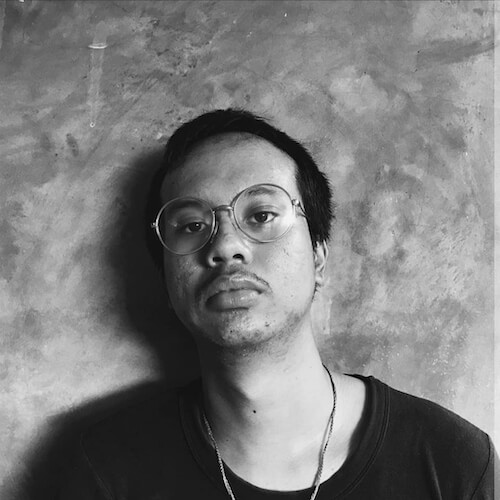
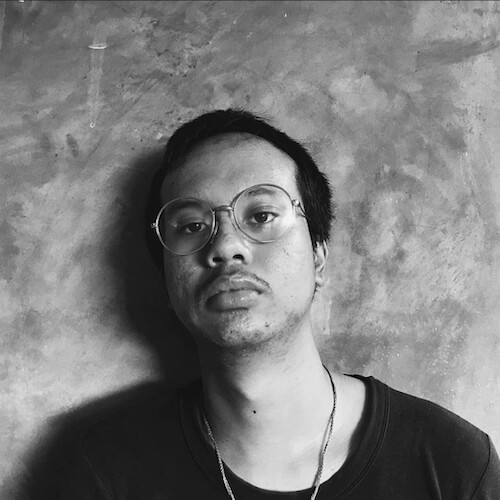
change text alignment for content text

diff --git a/src/pages/PageAbout.vue b/src/pages/PageAbout.vue
@@ -3,9 +3,9 @@
     class="lg:flex lg:justify-center lg:items-center px-8 md:px-16 pb-16 md:py-16 lg:px-24 lg:py-32 lg:pb-40"
   >
     <div
-      class="about-content image-container pb-4 lg:pb-0 lg:pt-8 lg:w-1/2 lg:mr-12 xl:mr-24"
+      class="about-content image-container pb-4 lg:pb-0 lg:pt-8 lg:w-1/2 lg:mr-12 xl:mr-8"
     >
-      <img class="w-2/3 md:w-1/2 lg:w-2/3 mx-auto" :src="picture" />
+      <img class="w-2/3 md:w-1/2 lg:w-1/2 mx-auto" :src="picture" />
       <div class="font-cormorant mt-2 text-sm text-center lg:text-base">
         Hanindito Buwono.
       </div>

diff --git a/src/pages/PagePortfolioWriting.vue b/src/pages/PagePortfolioWriting.vue
@@ -24,7 +24,7 @@
             {{ publication.title }}
           </p>
           <p
-            class="description-text font-light pb-4"
+            class="description-text text-center font-light pb-4"
             v-html="publication.description"
           />
           <div class="flex justify-center" v-if="publication.orderLink">

diff --git a/src/components/PortfolioDescription.vue b/src/components/PortfolioDescription.vue
@@ -1,5 +1,5 @@
 <template>
-  <div class="py-2 lg:text-center tracking-wide font-light md:font-normal md:opacity-75">
+  <div class="py-2 text-center tracking-wide font-light md:font-normal md:opacity-75">
     <h3
       class="description-text "
       :id="descriptionId"
